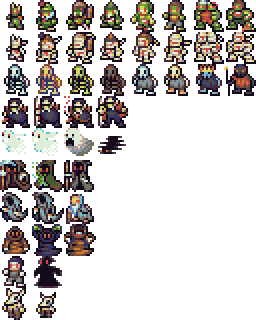
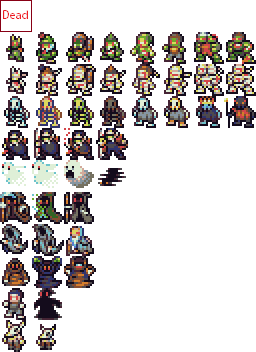
One way combat system
Monsters have health, can get hurt and die. I have added a dummy sprite
for corpses until I find a sprite for it. The player cannot be hurt,
because the player does not have stats yet.

diff --git a/js/app/creatures.js b/js/app/creatures.js
@@ -42,7 +42,7 @@ define(['ROT', 'Phaser'], function(ROT, Phaser) {
           if (name === 'Skeleton' && isDead=== 1){//Skeletons may revive each turn
             var revive = Math.floor(Math.random()*10);
             if (revive=== 1){
-              isDead = 0;
+              this.isDead = 0;
             }
           }
         },
@@ -56,22 +56,24 @@ define(['ROT', 'Phaser'], function(ROT, Phaser) {
         attack: function(){
           //This is called when the creature attacks
         },
-        gethurt: function(damage){
+        getHurt: function(damage){
           //This is called when the creature is hurt
-          damage -=def; //Subtract the creatures defense from the damage
-          hp -= damage; //apply damage to hp
-          if(hp <=0){
-            hp = 0;
-            isDead = 1;
+          this.damage -= this.def; //Subtract the creatures defense from the damage
+          this.hp -= damage; //apply damage to hp
+          console.log('hp ' + this.hp);
+          if(this.hp <=0){
+            this.hp = 0;
+            this.isDead = 1;
+            this.frame = 0;
           }
         }
       };
     },
     snake: function(x, y) {
-      return this._generic('Snake', 10, 5, 1, 'reptile0', 35, x, y);
+      return this._generic('Snake', 8, 5, 1, 'reptile0', 43, x, y);
     },
     skeleton: function(x, y){
-      return this._generic('Skeleton', 10, 4, 0, 'undead0', 16, x, y);
+      return this._generic('Skeleton', 15, 4, 0, 'undead0', 24, x, y);
     }
   };
 });

diff --git a/js/app/dungeon.js b/js/app/dungeon.js
@@ -150,16 +150,17 @@ define(['ROT', 'lodash', 'creatures'], function(ROT, _, creatures) {
         // Combat
         else if (this._hasMonster(newX, newY)) {
           var monster = this._getMonster(newX, newY);
-          // TODO: Attack the monster
-          // e.g. creature.attack(monster)
-
-          // Basic death:
-          // TODO: Move to creatures.js
-          monster.sprite.destroy();
-          this.monsters.splice(this.monsters.indexOf(monster), 1);
-          //
-
-          outcome.combat = true;
+          // TODO: Give hero stats
+          if (monster.isDead === 0){
+            //5 used as generic damage, player needs damage stat
+            monster.getHurt(5);
+            outcome.combat = true;
+          }
+          else{
+            creature.x = newX;
+            creature.y = newY;
+            outcome.moved = true;
+          }
         }
 
         return outcome;

diff --git a/js/app/game.js b/js/app/game.js
@@ -407,6 +407,9 @@ define(['Phaser', 'lodash', 'dungeon', 'ROT'], function(Phaser, _, dungeon, ROT)
 
   // Handle input / animations
   function update() {
+    dungeon.monsters.forEach(function(monster){
+      monster.sprite.frame = monster.frame;
+    });
     if (cursors.left.isDown) {
       is_pathing = false;
       movePlayer(-1, 0);
